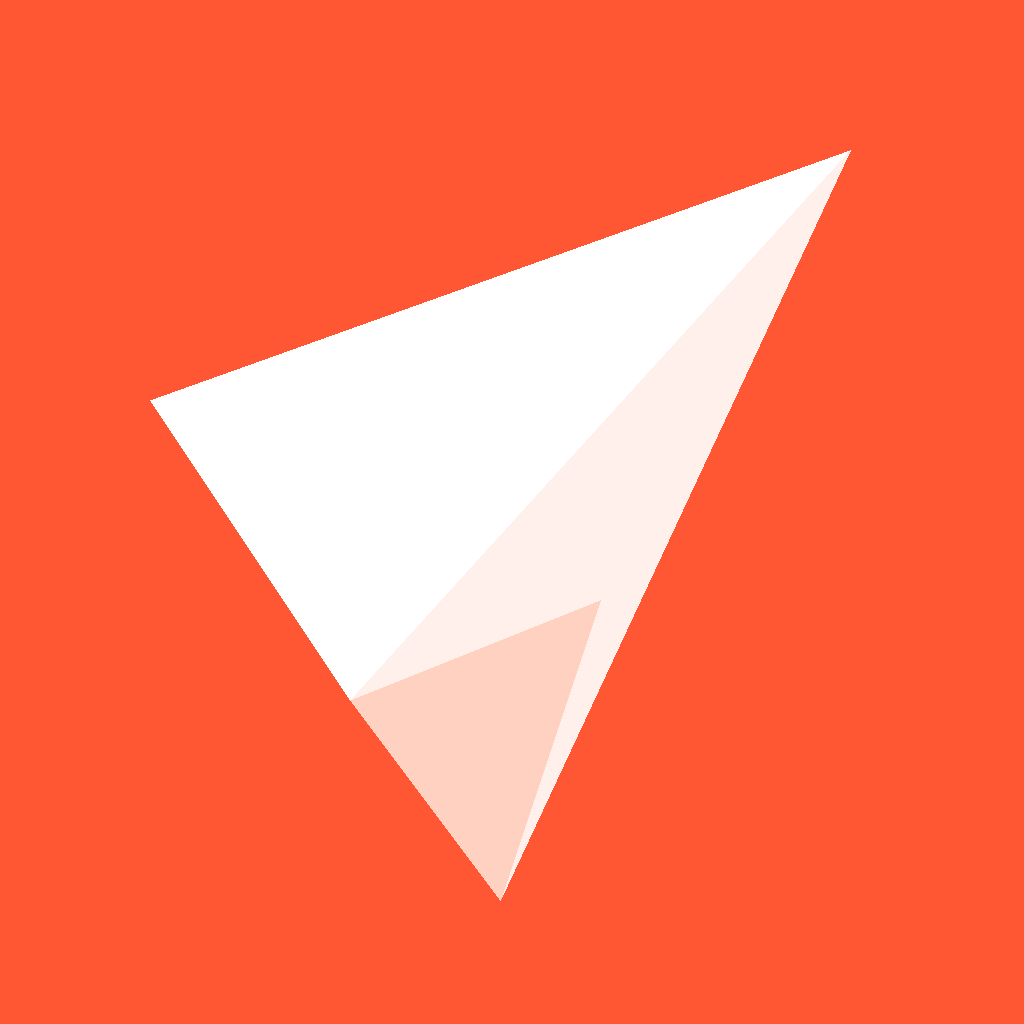
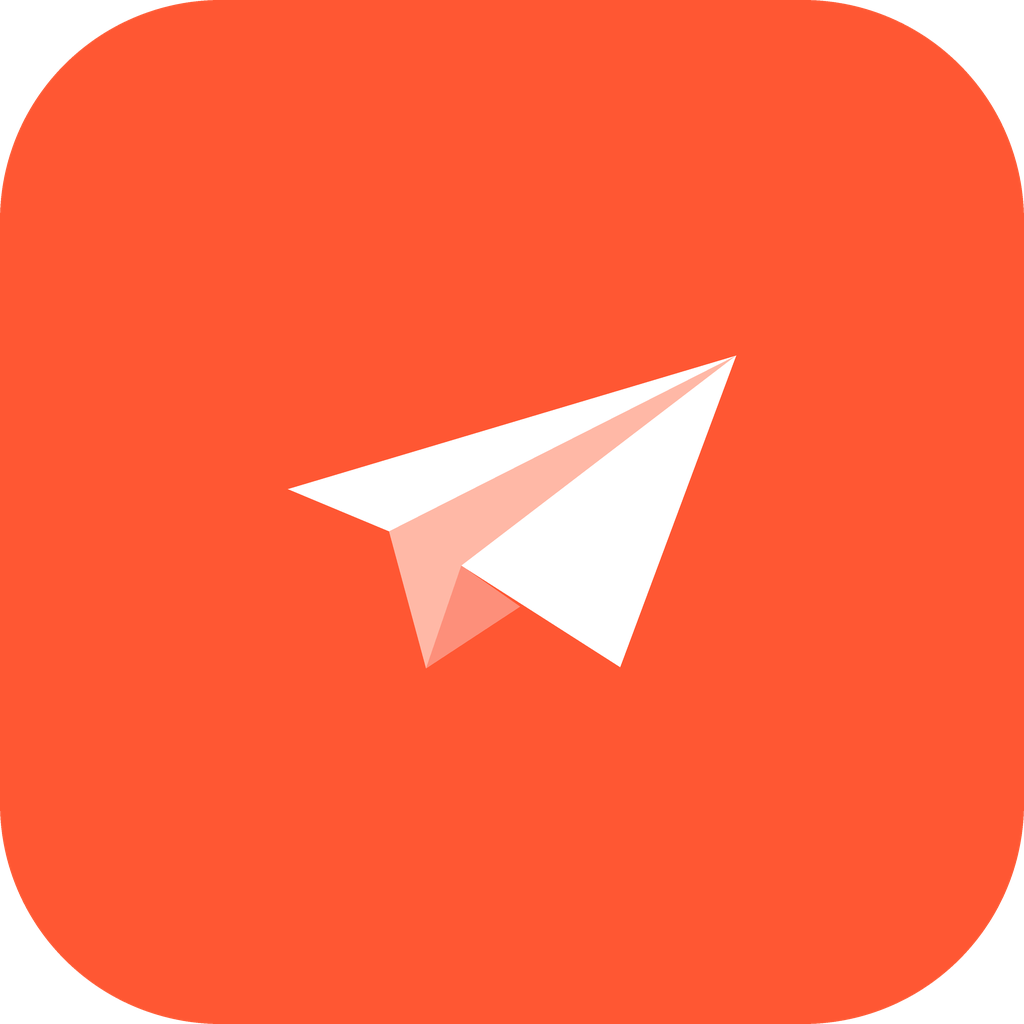
push

diff --git a/scripts/make_icons.py b/scripts/make_icons.py
@@ -1,0 +1,64 @@
+#!/usr/bin/env python3
+"""Draws the Swifs paper-plane logo in code (no design tool needed).
+
+Writes into app/assets/:
+  icon.png             full icon: orange rounded square + plane (legacy launcher)
+  icon_foreground.png  transparent plane for the Android adaptive icon
+  splash_plane.png     transparent plane for the native splash (no box)
+
+Run: python3 scripts/make_icons.py   (needs: pip install pillow)
+"""
+import os
+from PIL import Image, ImageDraw
+
+HERE = os.path.dirname(os.path.abspath(__file__))
+ASSETS = os.path.join(HERE, '..', 'app', 'assets')
+
+ORANGE = (255, 87, 51, 255)      # #FF5733 brand orange
+REF = 1254.0                     # reference canvas the plane points come from
+CENTER = (631.0, 624.0)          # centre of the plane's bounding box
+SS = 4                           # supersampling factor for smooth edges
+
+WHITE = (255, 255, 255, 255)
+LIGHT = (255, 184, 166, 255)
+FOLD = (253, 143, 122, 255)
+
+PLANE = [
+    ([(250, 585), (1012, 358), (422, 657)], WHITE),                      # left wing
+    ([(422, 657), (1012, 358), (545, 715), (485, 890)], LIGHT),          # body shadow
+    ([(1012, 358), (815, 888), (545, 715)], WHITE),                      # right wing
+    ([(545, 715), (485, 890), (645, 785)], FOLD),                        # fold
+]
+
+
+def render(size, scale, background=None, radius_ratio=0.0):
+    big = size * SS
+    img = Image.new('RGBA', (big, big), (0, 0, 0, 0))
+    draw = ImageDraw.Draw(img)
+    if background is not None:
+        draw.rounded_rectangle([0, 0, big - 1, big - 1],
+                               radius=big * radius_ratio, fill=background)
+
+    def to_canvas(x, y):
+        return ((x - CENTER[0]) / REF * big * scale + big / 2,
+                (y - CENTER[1]) / REF * big * scale + big / 2)
+
+    for points, color in PLANE:
+        draw.polygon([to_canvas(x, y) for x, y in points], fill=color)
+    return img.resize((size, size), Image.LANCZOS)
+
+
+def main():
+    os.makedirs(ASSETS, exist_ok=True)
+    # Full icon: rounded orange square (~22% corner radius), plane centred
+    render(1024, 0.72, background=ORANGE, radius_ratio=0.215).save(
+        os.path.join(ASSETS, 'icon.png'))
+    # Adaptive foreground: plane only, kept inside the 66% safe circle
+    render(1024, 0.72).save(os.path.join(ASSETS, 'icon_foreground.png'))
+    # Splash: plane only, kept inside the central circle Android 12 shows
+    render(1152, 0.6).save(os.path.join(ASSETS, 'splash_plane.png'))
+    print('Wrote icon.png, icon_foreground.png, splash_plane.png to', os.path.abspath(ASSETS))
+
+
+if __name__ == '__main__':
+    main()
